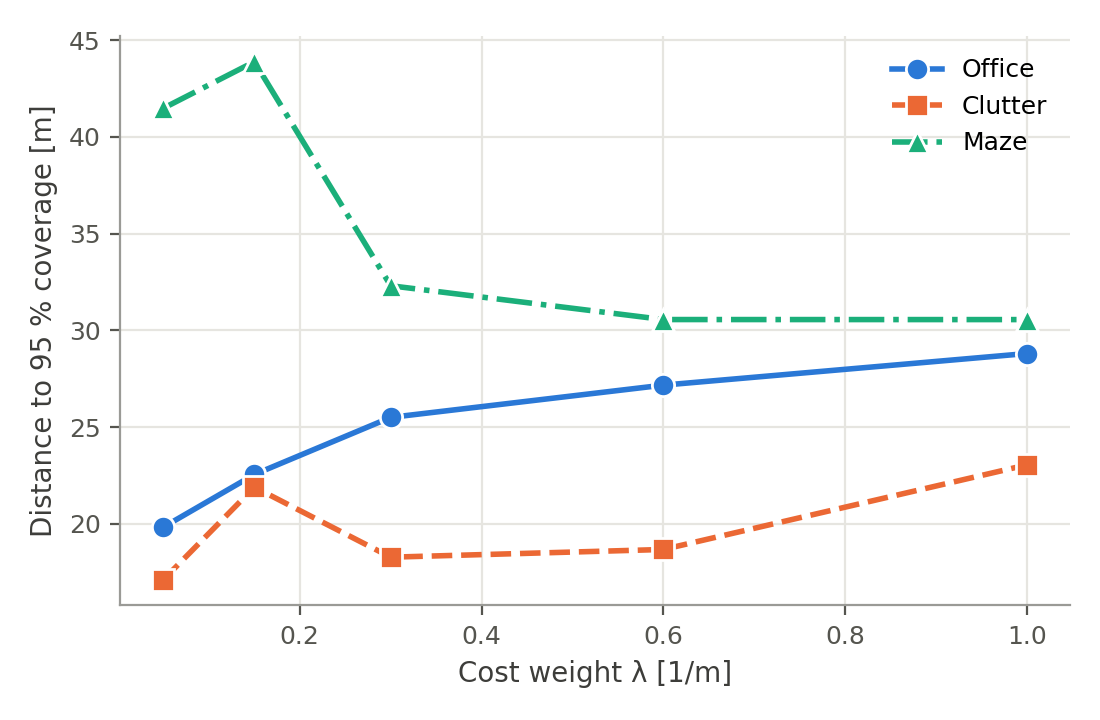
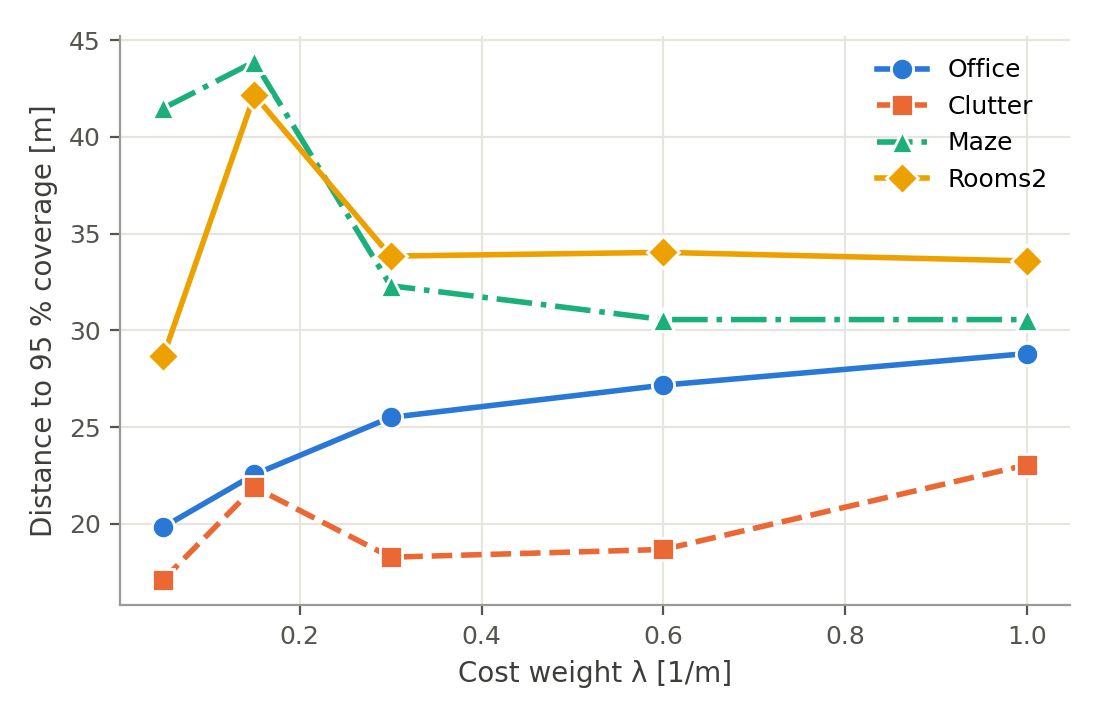
Update offline results with the rooms2 map (108 runs + lambda sweep)
4 maps x 3 strategies x 3 starts x 3 seeds. The office, clutter and maze
numbers reproduce the previous 81-run results exactly. All 108 runs reach
100 % coverage with 0 collisions.

diff --git a/results/offline/summary.md b/results/offline/summary.md
@@ -1,11 +1,14 @@
 | Map | Strategy | Runs | Time to 95 % [s] | Distance to 95 % [m] | Total distance [m] | Final coverage [%] | Map accuracy [%] | Goals | Escapes | Plan time [ms] |
 |---|---|---|---|---|---|---|---|---|---|---|
-| office | Nearest frontier | 9 | 96.4 ± 13.6 | 28.8 ± 3.7 | 46.8 ± 5.1 | 100.0 ± 0.0 | 99.94 ± 0.02 | 31.0 ± 4.5 | 2.0 ± 0.7 | 145 ± 11 |
-| office | Utility (IG·e^(−λd)) | 9 | 74.5 ± 11.9 | 22.7 ± 3.2 | 47.8 ± 5.3 | 100.0 ± 0.0 | 99.95 ± 0.01 | 32.3 ± 3.2 | 7.9 ± 11.6 | 139 ± 4 |
-| office | Utility + commitment (ours) | 9 | 80.2 ± 13.3 | 25.0 ± 3.9 | 45.6 ± 2.7 | 100.0 ± 0.0 | 99.94 ± 0.02 | 30.1 ± 3.5 | 8.7 ± 12.8 | 127 ± 6 |
-| clutter | Nearest frontier | 9 | 74.6 ± 12.3 | 23.0 ± 3.6 | 43.0 ± 2.8 | 100.0 ± 0.0 | 99.98 ± 0.01 | 28.9 ± 2.8 | 0.0 ± 0.0 | 134 ± 3 |
-| clutter | Utility (IG·e^(−λd)) | 9 | 60.7 ± 14.1 | 19.3 ± 4.0 | 47.3 ± 4.7 | 100.0 ± 0.0 | 99.98 ± 0.01 | 29.2 ± 3.6 | 0.1 ± 0.3 | 134 ± 6 |
-| clutter | Utility + commitment (ours) | 9 | 58.2 ± 9.3 | 18.8 ± 2.9 | 45.5 ± 3.2 | 100.0 ± 0.0 | 99.98 ± 0.01 | 24.4 ± 4.8 | 0.2 ± 0.7 | 135 ± 5 |
-| maze | Nearest frontier | 9 | 94.9 ± 7.3 | 30.8 ± 2.0 | 68.8 ± 4.7 | 100.0 ± 0.0 | 99.91 ± 0.03 | 46.3 ± 4.7 | 31.0 ± 44.4 | 127 ± 5 |
-| maze | Utility (IG·e^(−λd)) | 9 | 112.5 ± 54.3 | 36.0 ± 13.8 | 71.0 ± 3.8 | 100.0 ± 0.0 | 99.92 ± 0.03 | 44.1 ± 3.3 | 14.8 ± 17.9 | 132 ± 4 |
-| maze | Utility + commitment (ours) | 9 | 127.8 ± 72.2 | 39.8 ± 18.1 | 70.4 ± 3.3 | 100.0 ± 0.0 | 99.91 ± 0.03 | 43.2 ± 3.8 | 16.4 ± 17.3 | 120 ± 12 |
+| office | Nearest frontier | 9 | 96.4 ± 13.6 | 28.8 ± 3.7 | 46.8 ± 5.1 | 100.0 ± 0.0 | 99.94 ± 0.02 | 31.0 ± 4.5 | 2.0 ± 0.7 | 68 ± 4 |
+| office | Utility (IG·e^(−λd)) | 9 | 74.5 ± 11.9 | 22.7 ± 3.2 | 47.8 ± 5.3 | 100.0 ± 0.0 | 99.95 ± 0.01 | 32.3 ± 3.2 | 7.9 ± 11.6 | 75 ± 3 |
+| office | Utility + commitment (ours) | 9 | 80.2 ± 13.3 | 25.0 ± 3.9 | 45.6 ± 2.7 | 100.0 ± 0.0 | 99.94 ± 0.02 | 30.1 ± 3.5 | 8.7 ± 12.8 | 75 ± 3 |
+| clutter | Nearest frontier | 9 | 74.6 ± 12.3 | 23.0 ± 3.6 | 43.0 ± 2.8 | 100.0 ± 0.0 | 99.98 ± 0.01 | 28.9 ± 2.8 | 0.0 ± 0.0 | 85 ± 4 |
+| clutter | Utility (IG·e^(−λd)) | 9 | 60.7 ± 14.1 | 19.3 ± 4.0 | 47.3 ± 4.7 | 100.0 ± 0.0 | 99.98 ± 0.01 | 29.2 ± 3.6 | 0.1 ± 0.3 | 87 ± 3 |
+| clutter | Utility + commitment (ours) | 9 | 58.2 ± 9.3 | 18.8 ± 2.9 | 45.5 ± 3.2 | 100.0 ± 0.0 | 99.98 ± 0.01 | 24.4 ± 4.8 | 0.2 ± 0.7 | 86 ± 4 |
+| maze | Nearest frontier | 9 | 94.9 ± 7.3 | 30.8 ± 2.0 | 68.8 ± 4.7 | 100.0 ± 0.0 | 99.91 ± 0.03 | 46.3 ± 4.7 | 31.0 ± 44.4 | 78 ± 3 |
+| maze | Utility (IG·e^(−λd)) | 9 | 112.5 ± 54.3 | 36.0 ± 13.8 | 71.0 ± 3.8 | 100.0 ± 0.0 | 99.92 ± 0.03 | 44.1 ± 3.3 | 14.8 ± 17.9 | 89 ± 8 |
+| maze | Utility + commitment (ours) | 9 | 127.8 ± 72.2 | 39.8 ± 18.1 | 70.4 ± 3.3 | 100.0 ± 0.0 | 99.91 ± 0.03 | 43.2 ± 3.8 | 16.4 ± 17.3 | 122 ± 10 |
+| rooms2 | Nearest frontier | 9 | 112.0 ± 46.4 | 35.2 ± 13.9 | 60.9 ± 4.5 | 100.0 ± 0.0 | 99.92 ± 0.01 | 31.0 ± 6.9 | 0.0 ± 0.0 | 130 ± 17 |
+| rooms2 | Utility (IG·e^(−λd)) | 9 | 101.1 ± 35.3 | 31.4 ± 10.4 | 63.6 ± 1.7 | 100.0 ± 0.0 | 99.93 ± 0.01 | 26.3 ± 4.4 | 0.0 ± 0.0 | 118 ± 13 |
+| rooms2 | Utility + commitment (ours) | 9 | 107.7 ± 41.8 | 33.7 ± 12.3 | 63.4 ± 5.3 | 100.0 ± 0.0 | 99.93 ± 0.01 | 23.2 ± 4.4 | 0.0 ± 0.0 | 98 ± 22 |
